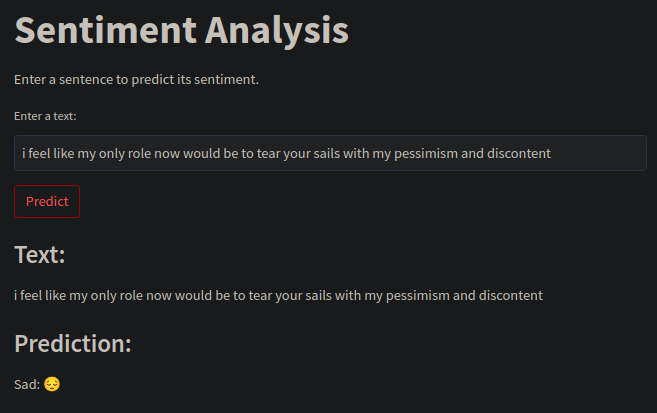
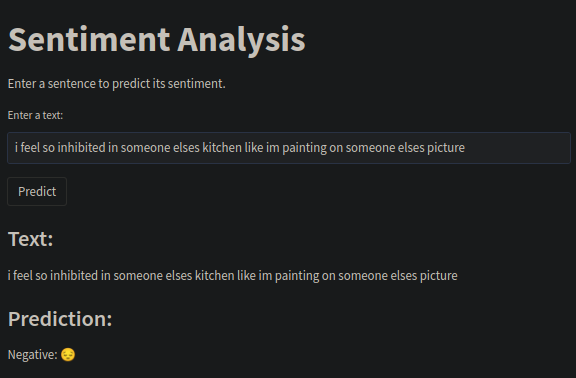
Add files via upload

diff --git a/app/app.py b/app/app.py
@@ -8,7 +8,7 @@ from nltk.tokenize import word_tokenize
 from nltk.stem import WordNetLemmatizer, PorterStemmer
 
 # Load the pre-trained model
-model = joblib.load('../models/pipeline_tfidf_nb_24_may_2023.pkl')
+model = joblib.load('../models/pipeline_tfidf_nb_30_may_2023.pkl')
 
 # Function to preprocess the input text
 def preprocess_text(text):
@@ -61,15 +61,18 @@ def main():
         prediction, probability = predict_sentiment(text_input)
         st.subheader("Prediction:")
         if prediction == 1:
-            st.write("Happy: 😂")
+            st.write("Positive: 😂")
+        elif prediction == 0:
+            st.write("Neutral: 😐")
         else:
-            st.write("Sad: 😔")
+            st.write("Negative: 😔")
         st.subheader("Probability:")
         st.write(f"Probability of Sad: {probability[0]:.2f}")
-        st.write(f"Probability of Happy: {probability[1]:.2f}")
-        
+        st.write(f"Probability of Neutral: {probability[1]:.2f}")
+        st.write(f"Probability of Happy: {probability[2]:.2f}")
+
         # Plot countplot for probability
-        data = {"Probability": ['Sad' , 'Happy'], "Value": probability}
+        data = {"Probability": ['Sad' , 'Neutral', 'Happy'], "Value": probability}
         df = pd.DataFrame(data)
         fig, ax = plt.subplots()
         sns.barplot(x="Probability", y="Value", data=df)
